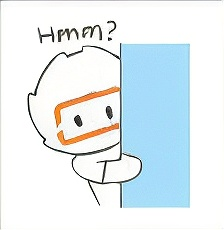
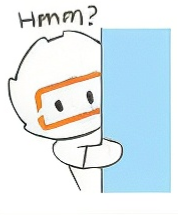
404

Changed region(s): [[0.0, 0.0, 1.0, 1.0]]

diff --git a/404.html b/404.html
@@ -120,7 +120,7 @@
             }
 
             .hmm-character {
-                width: 90px;
+                width: 120px;
                 height: auto;
             }
 
